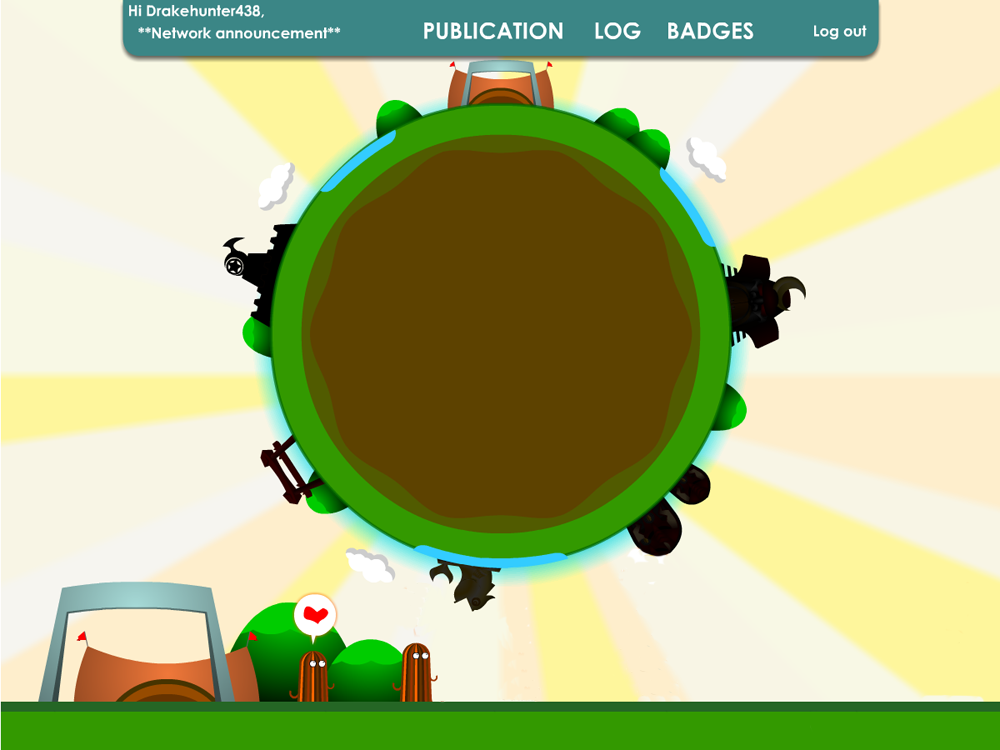
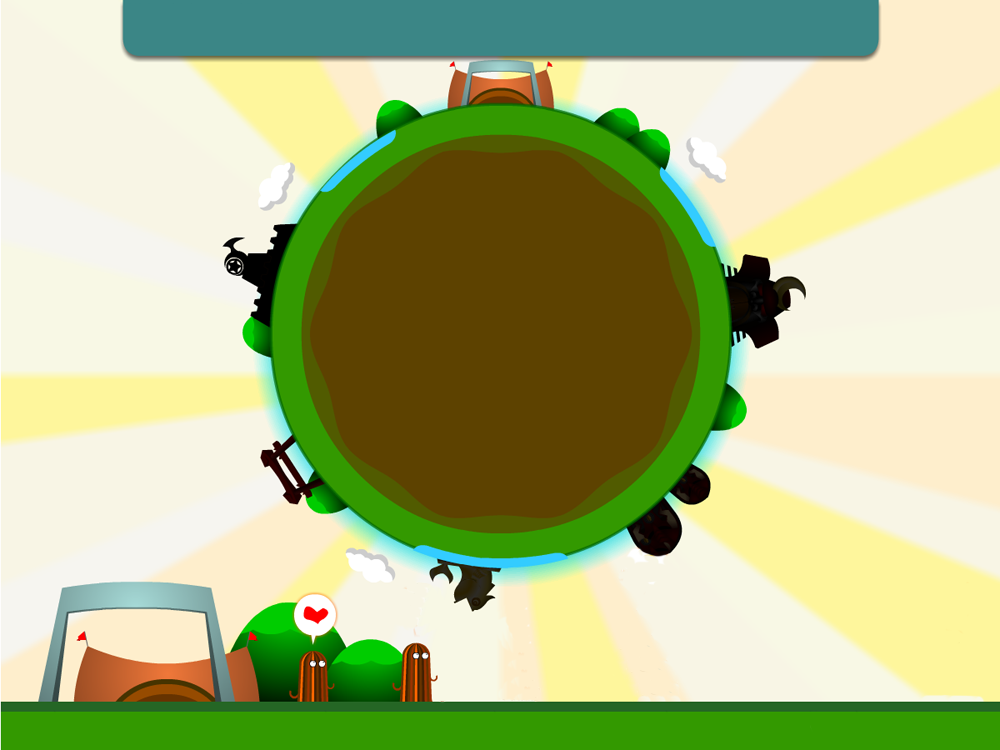
Add top bar with greeting, reputation

diff --git a/app/static/index.html b/app/static/index.html
@@ -17,6 +17,7 @@
   <link rel="stylesheet" href="css/npc.css">
   <link rel="stylesheet" href="css/world.css">
   <link rel="stylesheet" href="css/login.css">
+  <link rel="stylesheet" href="css/top-bar.css">
 
   <!--[if lt IE 9]>
   <script src="http://html5shiv.googlecode.com/svn/trunk/html5.js"></script>

diff --git a/app/static/css/top-bar.css b/app/static/css/top-bar.css
@@ -1,0 +1,18 @@
+#topBar {
+	color: white;
+	font-family: Verdana;
+	font-size: 1.2em;
+}
+
+#greeting {
+	position: absolute;
+	left: 140px;
+	top: 15px;
+	font-size: 1.5em;
+}
+
+#reputation {
+	position: absolute;
+	left: 710px;
+	top: 20px;
+}
